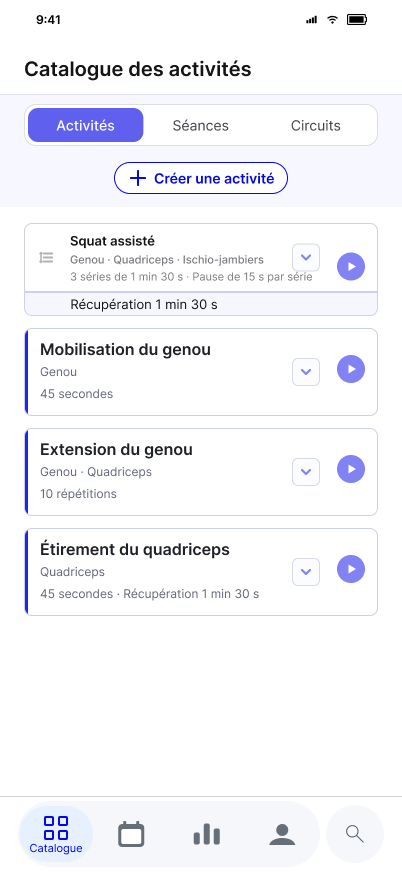
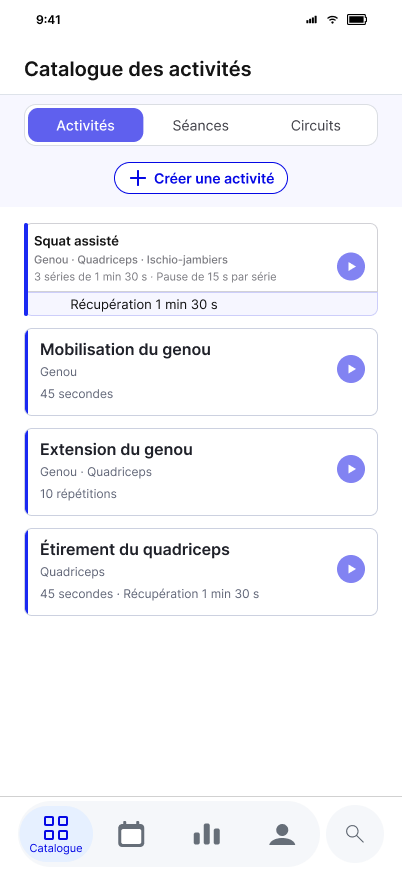
docs: réaligner le Catalogue des Activités (#128)
Aligne les interactions des cartes, les captures Figma, le parcours et les contrats ; réserve le futur déploiement aux médias V2.

diff --git a/docs/Specifications-fonctionnelles/07 – Registre des décisions de conception.md b/docs/Specifications-fonctionnelles/07 – Registre des décisions de conception.md
@@ -188,7 +188,9 @@ Les identifiants suivants ne correspondent à aucune décision active et ne doiv
 | D-153 | Dans le cadre bleu des paramètres, le contrôle singulier `Côté`, déjà sous `Séries`, occupe la ligne 2 colonne 1 et mesure `74 × 42 pt`. Grille : `74 / 124 / 124 pt`, gouttières `8 pt`, intervalle vertical `10 pt`. | Validée post-Figma | Oui |
 | D-154 | Une direction propre bilatérale est affichée dans les informations secondaires de la carte hors Tour bilatéral et développée dans la synthèse après la cible du mode, avant la Pause. Une direction héritée du Tour n’est répétée ni sur la carte ni dans la synthèse. | Validée | Oui |
 | D-155 | Le libellé visible est `Durée totale` dans les trois modes. En Répétitions et À l’échec : `Durée totale : ≥ {durée connue}`, sans modifier le calcul. | Validée | Oui |
-| D-156 | Pour `C` Séries d’un même côté, la Pause est comptée `C` fois lorsque la Récupération `R` vaut `0`, y compris après la dernière Série. Lorsque `R > 0`, la Pause est comptée `C − 1` fois et la Récupération remplace la dernière Pause. Avec `P(C,R) = C` si `R = 0`, sinon `C − 1`, la formule globale est `D = L × [C × A + P(C,R) × B] + R`. Si Durée totale pilote : `Cth = D / [L × (A + B)]` lorsque `R = 0`, sinon `Cth = ((D − R) / L + B) / (A + B)`. Cette décision conserve la recette T02-S02 et supersède toute formule inconditionnelle à `C − 1` Pauses. | Validée par le responsable produit le 14 septembre 2026, issue #52 | Oui |\n\n## Décisions du 14 septembre 2026 — Exécution directe d’une Activité
+| D-156 | Pour `C` Séries d’un même côté, la Pause est comptée `C` fois lorsque la Récupération `R` vaut `0`, y compris après la dernière Série. Lorsque `R > 0`, la Pause est comptée `C − 1` fois et la Récupération remplace la dernière Pause. Avec `P(C,R) = C` si `R = 0`, sinon `C − 1`, la formule globale est `D = L × [C × A + P(C,R) × B] + R`. Si Durée totale pilote : `Cth = D / [L × (A + B)]` lorsque `R = 0`, sinon `Cth = ((D − R) / L + B) / (A + B)`. Cette décision conserve la recette T02-S02 et supersède toute formule inconditionnelle à `C − 1` Pauses. | Validée par le responsable produit le 14 septembre 2026, issue #52 | Oui |
+
+## Décisions du 14 septembre 2026 — Exécution directe d’une Activité
 
 | ID | Décision | Statut | MVP |
 |---|---|---|:---:|
@@ -198,4 +200,6 @@ Les identifiants suivants ne correspondent à aucune décision active et ne doiv
 | D-160 | Le Ressenti est obligatoire lorsque la Synthèse d’une Activité directe est présentée, selon la règle commune aux Exécutions ; le Commentaire reste facultatif. | Validée | Non — V2 |
 | D-161 | L’Exécution directe figure dans le Suivi général avec l’origine `ACTIVITY` et ne crée aucune entrée de Séance. | Validée | Non — V2 |
 | D-162 | Elle alimente toutes les statistiques compatibles avec l’Activité, sans augmenter le nombre de Séances. | Validée | Non — V2 |
-| D-163 | Après `Terminer`, le Catalogue des Activités est restauré avec sa recherche, ses filtres et sa position de défilement. | Validée | Non — V2 |\n
+| D-163 | Après `Terminer`, le Catalogue des Activités est restauré avec sa recherche, ses filtres et sa position de défilement. | Validée | Non — V2 |
+
+| D-164 | Dans le Catalogue des Activités, l’appui sur la carte ouvre la consultation ou la modification ; le bouton Lecture lance exclusivement l’Exécution directe. Le contrôle `Déployer` et l’icône de déplacement sont absents des cartes du Catalogue. Une barre verticale bleue identifie toutes les cartes. La réintroduction éventuelle d’un contrôle de déploiement pour afficher les médias relève de la V2 et devra être détaillée séparément. Le frame `3841:8375` représente l’arbre d’actions sur fond Catalogue des Séances grisé. | Validée post-Figma | Oui |

diff --git a/docs/Specifications-fonctionnelles/08 – Conception fonctionnelle détaillée.md b/docs/Specifications-fonctionnelles/08 – Conception fonctionnelle détaillée.md
@@ -1176,7 +1176,9 @@ Pour une Activité autonome, le générateur produit par côté un bloc de `C` S
 
 La progression globale est calculée sur le Plan développé : chaque passage chronométré est pondéré par sa durée planifiée ; chaque passage Répétitions ou À l’échec acquiert sa part avec `Suivant`. Le lancement annonce le premier côté, la transition annonce le second, et un Tour n’annonce le côté qu’au début de chaque passage complet, pas à chaque Activité.
 
-Les résultats sont écrits de façon idempotente par Activité logique, répétition de Tour, Série et côté. Réinitialiser au second côté ne modifie pas le premier. La modale générique `Passer à l’activité suivante ?` n’est pas modifiée ; après confirmation sur le premier côté, le prochain nœud du plan est le second côté.\n\n## Exécution directe d’une Activité — V2
+Les résultats sont écrits de façon idempotente par Activité logique, répétition de Tour, Série et côté. Réinitialiser au second côté ne modifie pas le premier. La modale générique `Passer à l’activité suivante ?` n’est pas modifiée ; après confirmation sur le premier côté, le prochain nœud du plan est le second côté.
+
+## Exécution directe d’une Activité — V2
 
 ### Éligibilité et lancement
 
@@ -1188,4 +1190,10 @@ Le plan contient, dans l’ordre : `DIRECT_PREPARE(5 s)`, tous les passages de l
 
 ### Synthèse et retour
 
-La Synthèse affiche les données compatibles d’une Activité seule. Le Ressenti est obligatoire et conditionne `Terminer`; le Commentaire est facultatif. La finalisation enregistre l’origine `ACTIVITY`, puis restaure le Catalogue et son état antérieur.\n
+La Synthèse affiche les données compatibles d’une Activité seule. Le Ressenti est obligatoire et conditionne `Terminer`; le Commentaire est facultatif. La finalisation enregistre l’origine `ACTIVITY`, puis restaure le Catalogue et son état antérieur.
+
+### Interactions de la carte d’Activité de catalogue
+
+La carte distingue deux cibles : sa surface principale ouvre la consultation ou la modification de l’Activité ; le bouton Lecture lance son Exécution directe. Aucun chevron ou bouton `Déployer` n’est affiché dans l’état courant, et l’icône de déplacement propre à la Composition n’est jamais affichée dans le Catalogue. La barre verticale bleue appartient à la présentation de toutes les cartes d’Activité.
+
+En V2, un contrôle de déploiement pourra être réintroduit pour révéler les médias. Cette future action média restera distincte de l’ouverture de la carte et de l’Exécution directe.

diff --git a/docs/Specifications-fonctionnelles/05 – Versions du produit.md b/docs/Specifications-fonctionnelles/05 – Versions du produit.md
@@ -210,6 +210,12 @@ Le contenu exact de la V4 sera priorisé après les retours obtenus sur les vers
 
 Une tranche spécifique précède l’Exécution T03. Elle livre la configuration et la persistance `UNILATERAL` / `RIGHT_LEFT` / `LEFT_RIGHT`, la copie et la duplication, les calculs, les synthèses, les contrôles Activité et Tour, la confirmation conditionnelle d’activation d’un Tour et la résolution propre/effective. Elle n’exécute encore aucun passage.
 
-T03 est ensuite révisée pour développer le Plan d’Exécution par Séries, Tours et côtés, afficher le sous-titre du côté courant, pondérer la progression globale, émettre les annonces vocales de côté, réinitialiser uniquement le passage courant et persister des résultats séparés par côté. Les anciennes exclusions d’une Série unique ou d’un Tour unique sont supprimées des contrats T03.\n\n## Complément V2 — Activité directement exécutable
+T03 est ensuite révisée pour développer le Plan d’Exécution par Séries, Tours et côtés, afficher le sous-titre du côté courant, pondérer la progression globale, émettre les annonces vocales de côté, réinitialiser uniquement le passage courant et persister des résultats séparés par côté. Les anciennes exclusions d’une Série unique ou d’un Tour unique sont supprimées des contrats T03.
 
-La première version fonctionnelle du Catalogue des Activités inclut l’exécution directe d’une référence persistante : action sur la carte, préparation fixe de `5 s`, moteur commun, Synthèse, Suivi général typé et statistiques compatibles. Cette capacité appartient à la V2 et ne modifie pas le périmètre du MVP centré sur les Séances.\n
+## Complément V2 — Activité directement exécutable
+
+La première version fonctionnelle du Catalogue des Activités inclut l’exécution directe d’une référence persistante : action sur la carte, préparation fixe de `5 s`, moteur commun, Synthèse, Suivi général typé et statistiques compatibles. Cette capacité appartient à la V2 et ne modifie pas le périmètre du MVP centré sur les Séances.
+
+### Précision V2 — Carte d’Activité et médias
+
+Dans le Catalogue des Activités, l’appui sur la carte ouvre la consultation ou la modification et le bouton Lecture lance l’Exécution directe. Le contrôle `Déployer` est absent de l’état courant. Sa réintroduction éventuelle pour afficher les médias est une évolution V2 distincte, à détailler avec les comportements média.

diff --git a/docs/Specifications-fonctionnelles/03 – Parcours utilisateur.md b/docs/Specifications-fonctionnelles/03 – Parcours utilisateur.md
@@ -404,7 +404,9 @@ En cas d’arrêt confirmé, le Circuit, la Séance courante et les résultats d
 5. `Annuler` ne modifie rien. `Confirmer` applique atomiquement la direction au Tour, remet les seules Activités concernées à `UNILATERAL` et désactive les contrôles enfants.
 6. À l’Exécution, le sous-titre `Côté droit` ou `Côté gauche` apparaît sous le nom de l’Activité. `Activité X/Y` conserve son rang logique ; aucun `1/2` ou `2/2` n’est ajouté.
 7. Une Activité autonome termine toutes ses Séries du premier côté puis toutes celles du second. Un Tour termine tout son contenu du premier côté puis tout son contenu du second, pour chaque répétition.
-8. La modale générique de passage à l’Activité suivante reste inchangée. Confirmée pendant le premier côté, elle enregistre ce côté comme partiel et ouvre le second côté ; confirmée pendant le second, elle poursuit le Plan d’Exécution.\n\n## Exécuter directement une Activité — V2
+8. La modale générique de passage à l’Activité suivante reste inchangée. Confirmée pendant le premier côté, elle enregistre ce côté comme partiel et ouvre le second côté ; confirmée pendant le second, elle poursuit le Plan d’Exécution.
+
+## Exécuter directement une Activité — V2
 
 1. Ouvrir `Activités` dans le Catalogue.
 2. Appuyer sur l’action `Exécuter` d’une Activité valide.
@@ -413,4 +415,12 @@ En cas d’arrêt confirmé, le Circuit, la Séance courante et les résultats d
 5. Après la dernière phase, entendre le signal de fin et ouvrir immédiatement la Synthèse.
 6. Sélectionner obligatoirement un Ressenti ; le Commentaire reste facultatif.
 7. Appuyer sur `Terminer` pour enregistrer l’Exécution dans le Suivi général avec l’origine `ACTIVITY`.
-8. Revenir au Catalogue des Activités avec recherche, filtres et position de défilement restaurés.\n
+8. Revenir au Catalogue des Activités avec recherche, filtres et position de défilement restaurés.
+## Consulter ou modifier une Activité depuis le Catalogue — V2
+
+1. Ouvrir `Activités` dans le Catalogue.
+2. Appuyer sur la surface de la carte, hors bouton Lecture.
+3. Consulter ou modifier l’Activité.
+4. Revenir au Catalogue dans son état précédent.
+
+Le bouton Lecture reste réservé à l’Exécution directe. Aucun contrôle `Déployer` n’est affiché dans cette version. Un futur contrôle de déploiement des médias pourra être introduit en V2 sans modifier l’action principale de la carte.

diff --git a/docs/Specifications-fonctionnelles/10 – Processus métier et règles métier transverses.md b/docs/Specifications-fonctionnelles/10 – Processus métier et règles métier transverses.md
@@ -205,7 +205,9 @@ Ce chapitre rassemble les règles fonctionnelles qui s’appliquent à plusieurs
 | RM-150 | Les résultats sont séparés par côté ; l’état global est partiel dès qu’un côté est partiel ou manquant après avancement. |
 | RM-151 | Dans la Composition, le Tour porte seul toute direction héritée : ses cartes ne répètent pas `D→G` ou `G→D`. Hors Tour bilatéral, une carte affiche sa direction propre bilatérale dans ses informations secondaires ; aucune indication en `UNILATERAL`. |
 | RM-152 | La synthèse propre bilatérale place la direction développée après la cible du mode et avant la Pause. Clause absente en `UNILATERAL` et en héritage du Tour. |
-| RM-153 | Le libellé utilisateur est `Durée totale`; en Répétitions et À l’échec, `≥` signale une borne basse sans changer le calcul. |\n\n## 12. Règles métier — Exécution directe d’une Activité V2
+| RM-153 | Le libellé utilisateur est `Durée totale`; en Répétitions et À l’échec, `≥` signale une borne basse sans changer le calcul. |
+
+## 12. Règles métier — Exécution directe d’une Activité V2
 
 | ID | Règle |
 |---|---|
@@ -216,4 +218,6 @@ Ce chapitre rassemble les règles fonctionnelles qui s’appliquent à plusieurs
 | RM-100 | La dernière phase achevée déclenche le signal de fin puis la Synthèse. |
 | RM-101 | Le Ressenti reste obligatoire lorsque la Synthèse est présentée ; `Terminer` reste désactivé avant sa sélection. |
 | RM-102 | Le Suivi conserve l’origine `ACTIVITY` et les statistiques compatibles, sans incrémenter le nombre de Séances. |
-| RM-103 | La finalisation restaure l’état antérieur du Catalogue des Activités. |\n
+| RM-103 | La finalisation restaure l’état antérieur du Catalogue des Activités. |
+
+| RM-162 | Dans le Catalogue des Activités, un appui sur la carte hors bouton Lecture ouvre l’Activité en consultation ou modification ; le bouton Lecture lance uniquement l’Exécution directe. Aucun contrôle `Déployer` n’est disponible dans l’état courant. Une future action de déploiement des médias reste une capacité V2 distincte. |

diff --git a/docs/Specifications-fonctionnelles/13 – Contrats d’écran.md b/docs/Specifications-fonctionnelles/13 – Contrats d’écran.md
@@ -1222,7 +1222,7 @@ La modale générique `Passer à l’activité suivante ?` est inchangée. Aprè
 
 | ID | Référence Figma | Contrat | Criticité |
 |---|---|---|---|
-| CE-ACT-EXE-01 | Catalogue Activités `3786:5093`, `3787:5148`, `3787:5209` | Chaque carte valide présente une action `Exécuter` distincte du chevron d’ouverture. | Obligatoire |
+| CE-ACT-EXE-01 | Catalogue Activités `3786:5093`, `3787:5148`, `3787:5209` | Chaque carte valide présente un bouton Lecture d’Exécution directe distinct de la surface principale, qui ouvre la consultation ou la modification. Aucun contrôle `Déployer` n’est affiché. | Obligatoire |
 | CE-ACT-EXE-02 | `3835:5385` | Préparation fixe de `5 s`, nom de l’Activité, aucun compteur de Tour ou Cycle. | Obligatoire |
 | CE-ACT-EXE-03 | `3835:5465` | Exécution commune adaptée à une Activité seule ; Série et prochaine phase visibles ; aucun Tour artificiel. | Obligatoire |
 | CE-ACT-EXE-04 | `3836:5437` | Synthèse initiale ; `Terminer` désactivé tant qu’aucun Ressenti n’est choisi. | Obligatoire |
@@ -1264,4 +1264,14 @@ Ces captures matérialisent les états Figma associés aux contrats `CE-ACT-EXE-
 ### CE-ACT-EXE-05 — Synthèse avec Ressenti sélectionné
 
 ![Synthèse d’une Activité directe — Ressenti sélectionné](./images/CE-ACT-EXE-05-synthese-ressenti-selectionne.png)
+### Révision du Catalogue des Activités — D-164
 
+Pour les frames `3786:5093`, `3787:5148` et `3787:5209` :
+
+- la surface de carte ouvre l’Activité en consultation ou modification ;
+- le bouton Lecture déclenche uniquement l’Exécution directe ;
+- aucun contrôle `Déployer` ni icône de déplacement n’est visible ;
+- chaque carte porte une barre verticale bleue ;
+- les informations de la première carte commencent au même axe horizontal que celles des autres cartes.
+
+Le frame `3841:8375` affiche l’arbre d’actions de création au-dessus du Catalogue des Séances grisé. La réintroduction d’un contrôle destiné à afficher les médias est hors de ce contrat courant et reste une évolution V2 à détailler.

diff --git a/docs/Specifications-fonctionnelles/06 – Ecrans et navigation de la V1.md b/docs/Specifications-fonctionnelles/06 – Ecrans et navigation de la V1.md
@@ -1627,5 +1627,12 @@ La Synthèse porte le nom de l’Activité, le statut, la Durée réelle et les 
 #### Synthèse — Ressenti sélectionné
 
 ![Synthèse d’une Activité directe — Ressenti sélectionné](./images/CE-ACT-EXE-05-synthese-ressenti-selectionne.png)
+### Mise à jour — Cartes du Catalogue des Activités
 
+Dans les frames `3786:5093`, `3787:5148` et `3787:5209`, chaque carte d’Activité ne présente plus de contrôle `Déployer` ni d’icône de déplacement. Une barre verticale bleue est affichée sur chaque carte, y compris la première ; les informations de la première carte sont alignées à gauche avec celles des autres cartes.
 
+L’appui sur la carte, hors bouton Lecture, ouvre l’Activité en consultation ou modification. Le bouton Lecture déclenche exclusivement l’Exécution directe. Un éventuel contrôle de déploiement destiné à afficher les médias appartient à la V2 et n’est pas affiché dans ces frames.
+
+Le frame `3841:8375`, `Catalogue des Séances — Catalogue — Créer — Arbre d’actions`, reprend le Catalogue des Séances comme arrière-plan sous le voile modal commun.
+
+![Catalogue des Séances — Création — Arbre d’actions](./images/catalogue-seances-creer-arbre-actions.png)

diff --git a/docs/INDEX.md b/docs/INDEX.md
@@ -165,4 +165,6 @@ La mise à jour du 8 septembre 2026 supprime le type d’Activité `Récupérati
 ## Évolution V2 — Exécution directe d’une Activité
 
 Décision du 14 septembre 2026, établie depuis la baseline `9d4b39fb0881756af34795ab64fc9c91231a81f4`. Les chapitres 00 à 13 et `PRODUCT.md` propagent l’origine d’Exécution `ACTIVITY`, la préparation fixe de `5 s`, l’absence de `SESSION_END`, la Synthèse à Ressenti obligatoire, le Suivi général, les statistiques compatibles et le retour au Catalogue des Activités.
+## Mise à jour visuelle — Cartes du Catalogue des Activités
 
+Les cartes du Catalogue des Activités séparent désormais l’ouverture en consultation/modification, obtenue par appui sur la carte, et l’Exécution directe, déclenchée uniquement par le bouton Lecture. Le contrôle `Déployer` n’est pas affiché dans cet état. Sa réintroduction éventuelle pour afficher les médias relève de la V2. Les captures de référence ont été réalignées sur Figma.
